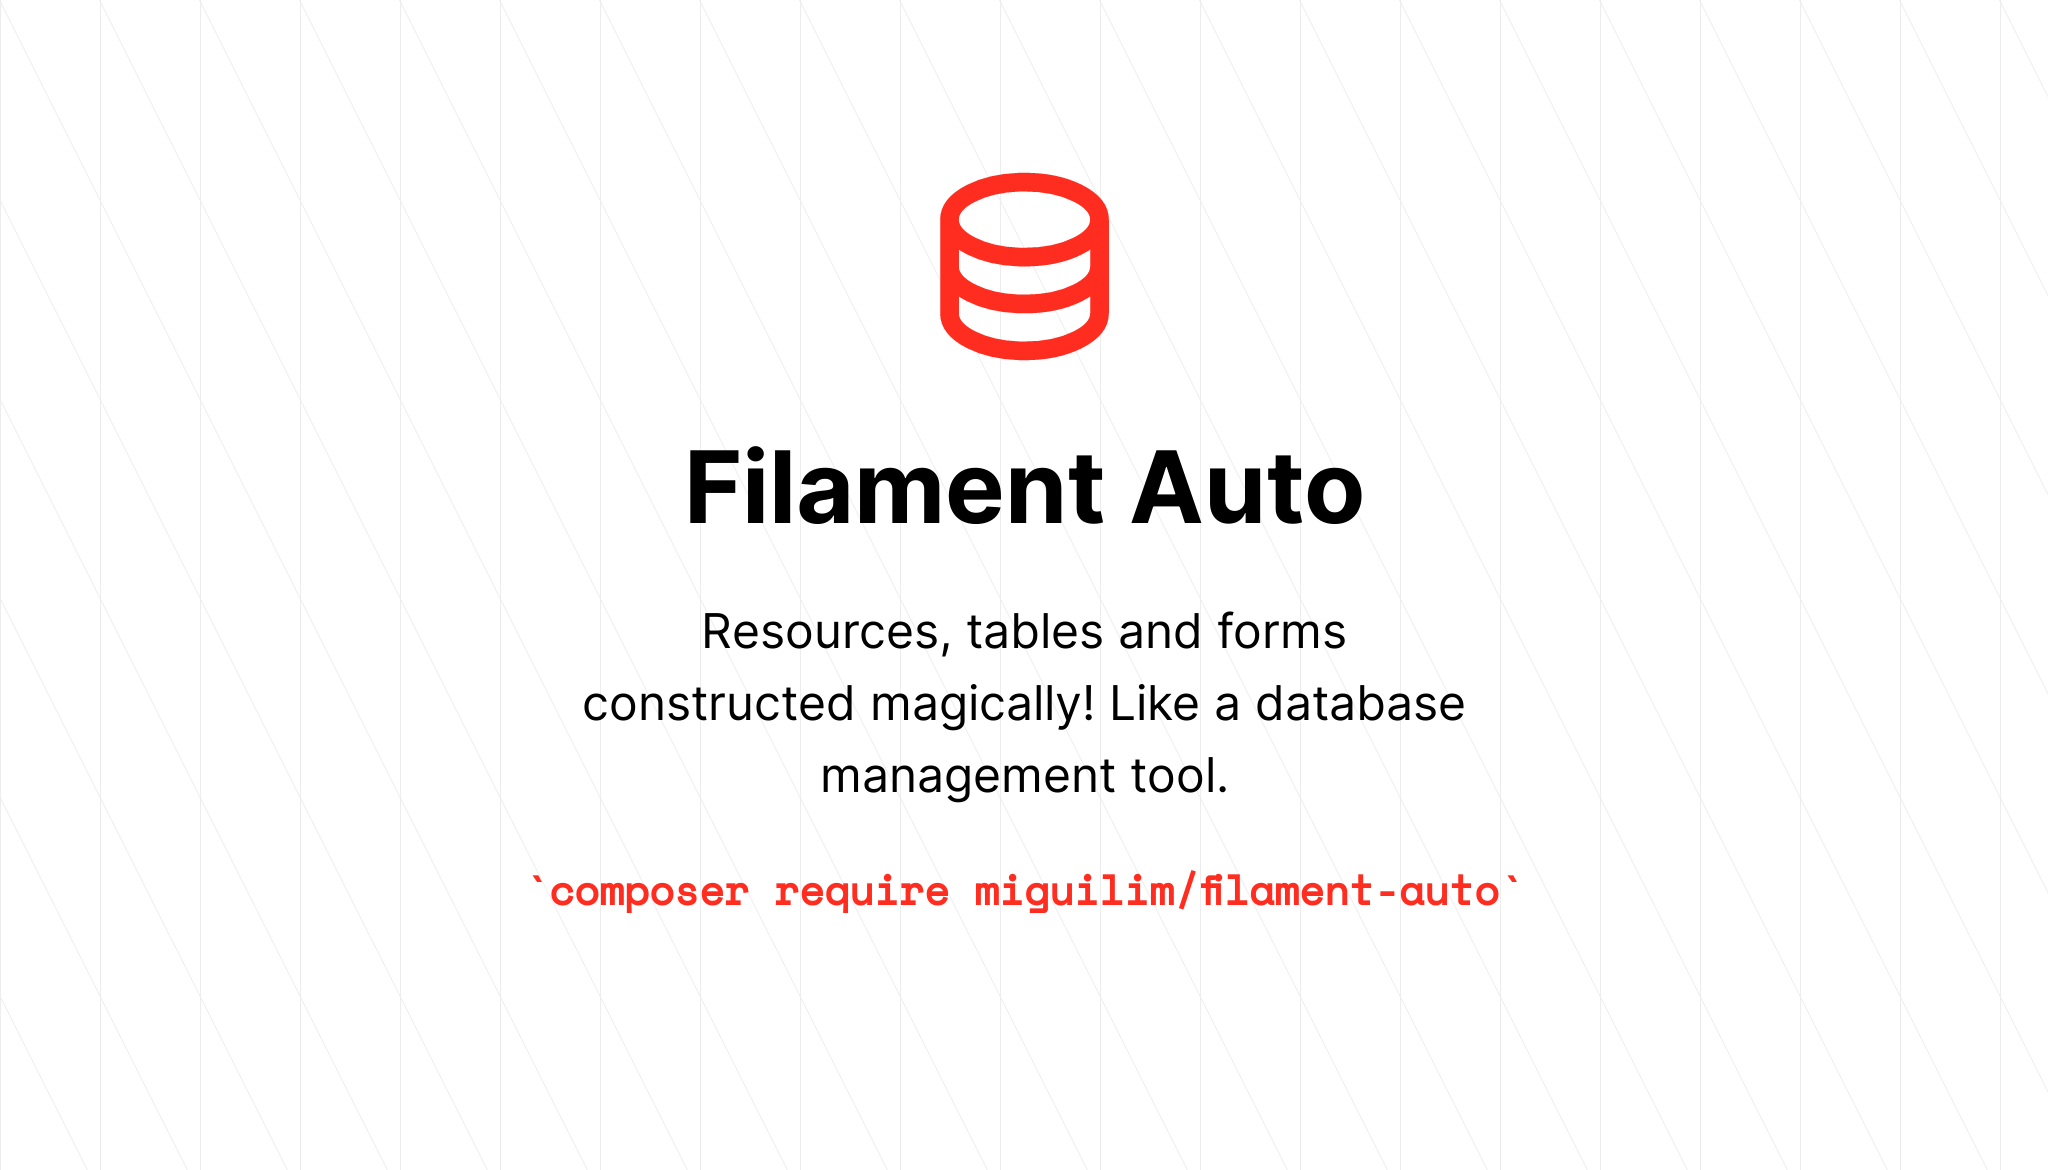
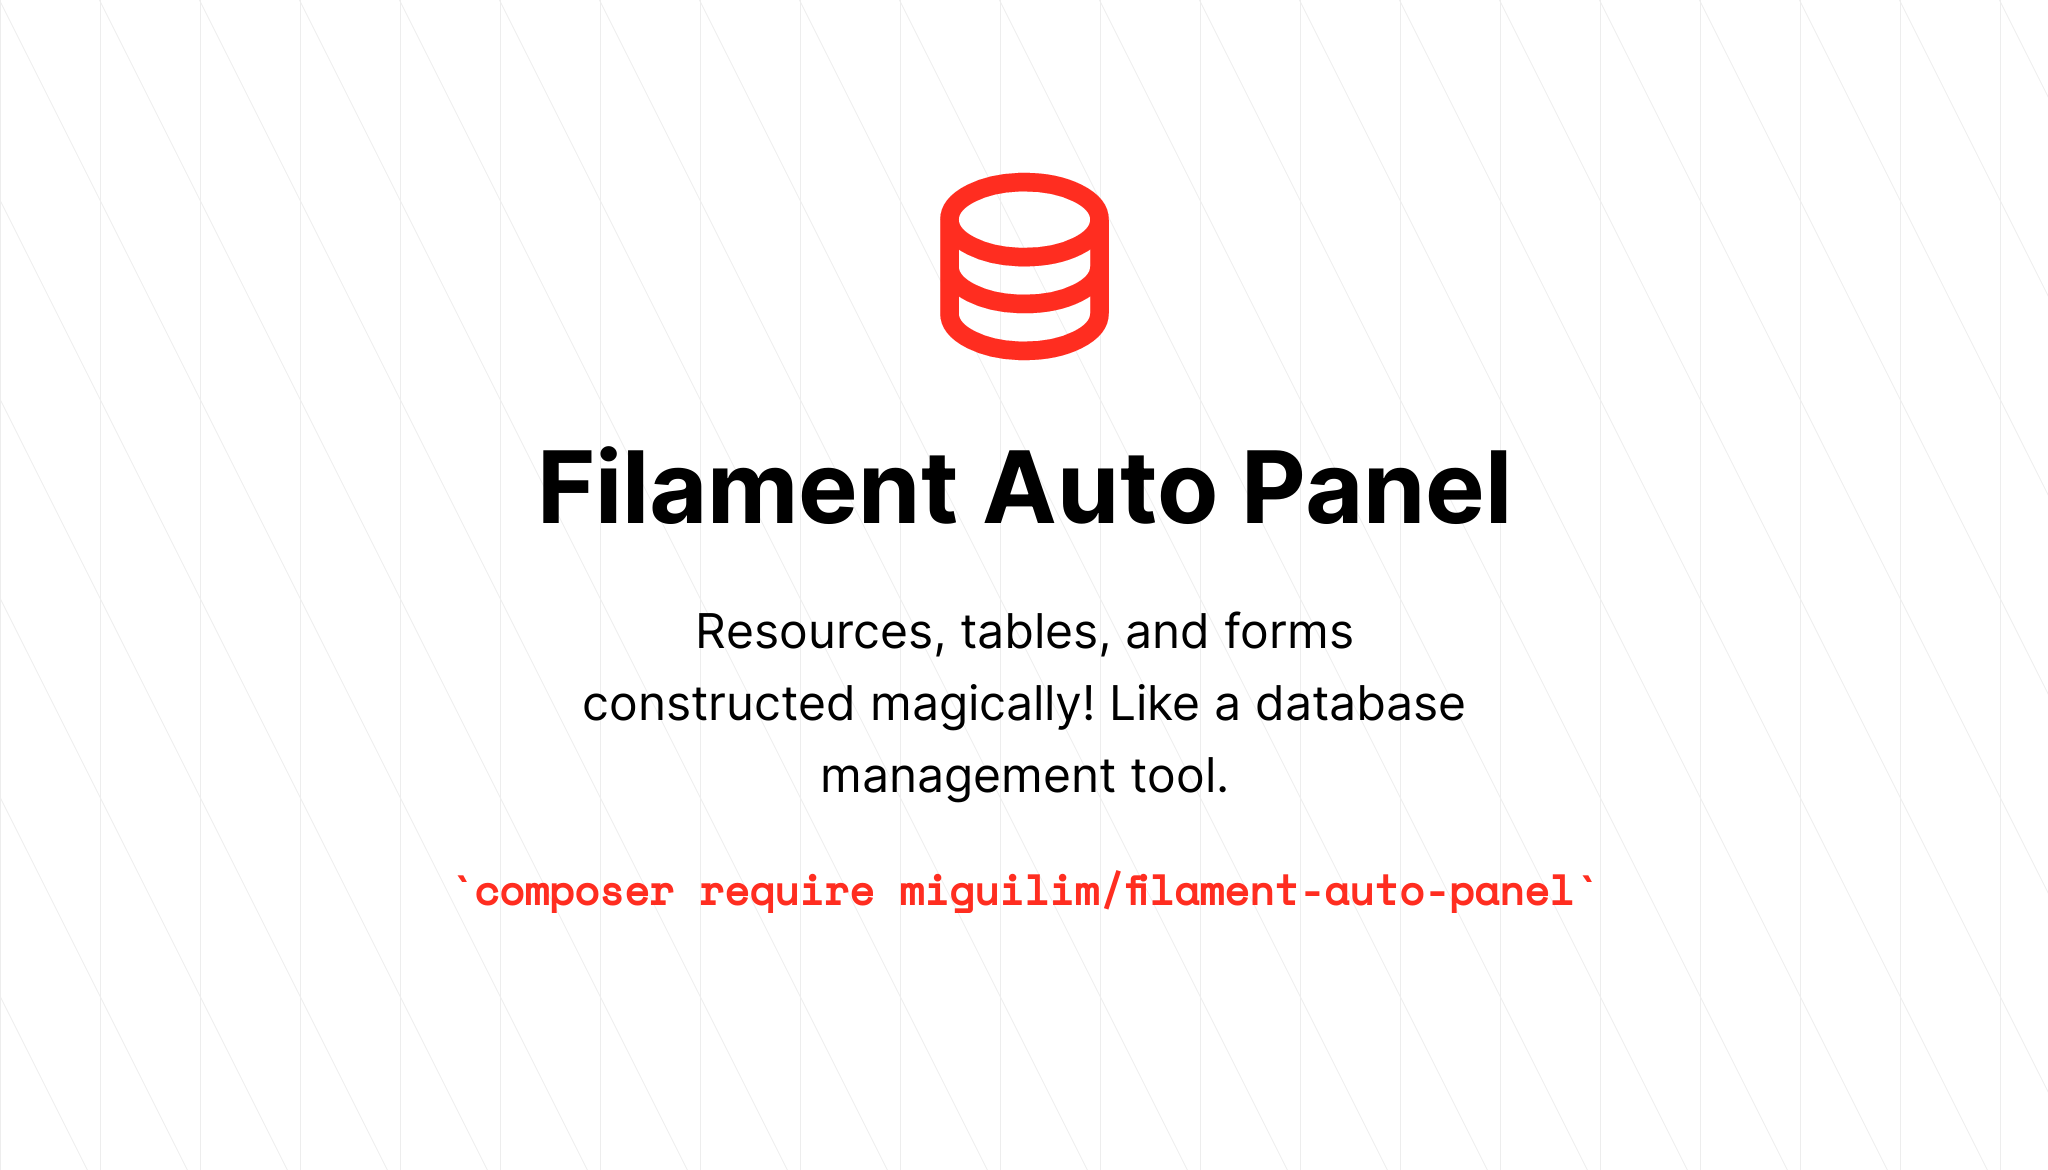
Migrate to new namespace

Changed region(s): [[0.25, 0.3692, 0.75, 0.4615], [0.2188, 0.7385, 0.7812, 0.8], [0.3438, 0.5231, 0.6562, 0.5538]]

diff --git a/src/AutoResource.php b/src/AutoResource.php
@@ -1,6 +1,6 @@
 <?php
 
-namespace Miguilim\FilamentAuto;
+namespace Miguilim\FilamentAutoPanel;
 
 use Filament\Tables;
 use Filament\Forms\Form;
@@ -9,10 +9,10 @@ use Filament\Resources\Resource;
 use Filament\Tables\Table;
 use Illuminate\Database\Eloquent\Builder;
 use Illuminate\Database\Eloquent\SoftDeletingScope;
-use Miguilim\FilamentAuto\Generators\FormGenerator;
-use Miguilim\FilamentAuto\Generators\InfolistGenerator;
-use Miguilim\FilamentAuto\Generators\TableGenerator;
-use Miguilim\FilamentAuto\Mounters\PageMounter;
+use Miguilim\FilamentAutoPanel\Generators\FormGenerator;
+use Miguilim\FilamentAutoPanel\Generators\InfolistGenerator;
+use Miguilim\FilamentAutoPanel\Generators\TableGenerator;
+use Miguilim\FilamentAutoPanel\Mounters\PageMounter;
 
 class AutoResource extends Resource
 {

diff --git a/src/AutoRelationManager.php b/src/AutoRelationManager.php
@@ -1,6 +1,6 @@
 <?php
 
-namespace Miguilim\FilamentAuto;
+namespace Miguilim\FilamentAutoPanel;
 
 use Filament\Forms\Form;
 use Filament\Infolists\Infolist;
@@ -13,9 +13,9 @@ use Illuminate\Database\Eloquent\Relations\HasMany;
 use Illuminate\Database\Eloquent\Relations\MorphMany;
 use Illuminate\Database\Eloquent\Relations\MorphToMany;
 use Illuminate\Database\Eloquent\SoftDeletingScope;
-use Miguilim\FilamentAuto\Generators\FormGenerator;
-use Miguilim\FilamentAuto\Generators\InfolistGenerator;
-use Miguilim\FilamentAuto\Generators\TableGenerator;
+use Miguilim\FilamentAutoPanel\Generators\FormGenerator;
+use Miguilim\FilamentAutoPanel\Generators\InfolistGenerator;
+use Miguilim\FilamentAutoPanel\Generators\TableGenerator;
 
 class AutoRelationManager extends RelationManager
 {

diff --git a/src/Mounters/PageMounter.php b/src/Mounters/PageMounter.php
@@ -1,11 +1,11 @@
 <?php
 
-namespace Miguilim\FilamentAuto\Mounters;
+namespace Miguilim\FilamentAutoPanel\Mounters;
 
 use Filament\Resources\Pages\PageRegistration;
-use Miguilim\FilamentAuto\Filament\Pages\FilamentAutoResourceCreate;
-use Miguilim\FilamentAuto\Filament\Pages\FilamentAutoResourceList;
-use Miguilim\FilamentAuto\Filament\Pages\FilamentAutoResourceView;
+use Miguilim\FilamentAutoPanel\Filament\Pages\FilamentAutoPanelResourceCreate;
+use Miguilim\FilamentAutoPanel\Filament\Pages\FilamentAutoPanelResourceList;
+use Miguilim\FilamentAutoPanel\Filament\Pages\FilamentAutoPanelResourceView;
 
 class PageMounter
 {

diff --git a/src/Generators/Concerns/HasGeneratorHelpers.php b/src/Generators/Concerns/HasGeneratorHelpers.php
@@ -1,12 +1,12 @@
 <?php
 
-namespace Miguilim\FilamentAuto\Generators\Concerns;
+namespace Miguilim\FilamentAutoPanel\Generators\Concerns;
 
 use Closure;
 use Doctrine\DBAL\Schema\Column;
 use Illuminate\Support\HtmlString;
 use Laravel\SerializableClosure\SerializableClosure;
-use Miguilim\FilamentAuto\Doctrine\CustomMySQLSchemaManager;
+use Miguilim\FilamentAutoPanel\Doctrine\CustomMySQLSchemaManager;
 
 trait HasGeneratorHelpers
 {

diff --git a/src/FilamentAutoPanelProvider.php b/src/FilamentAutoPanelProvider.php
@@ -1,10 +1,10 @@
 <?php
 
-namespace Miguilim\FilamentAuto;
+namespace Miguilim\FilamentAutoPanel;
 
 use Illuminate\Support\ServiceProvider;
 
-class FilamentAutoProvider extends ServiceProvider
+class FilamentAutoPanelProvider extends ServiceProvider
 {
     /**
      * Register services.

diff --git a/src/Mounters/RelationManagerMounter.php b/src/Mounters/RelationManagerMounter.php
@@ -1,8 +1,8 @@
 <?php
 
-namespace Miguilim\FilamentAuto\Mounters;
+namespace Miguilim\FilamentAutoPanel\Mounters;
 
-use Miguilim\FilamentAuto\AutoRelationManager;
+use Miguilim\FilamentAutoPanel\AutoRelationManager;
 
 class RelationManagerMounter
 {

diff --git a/src/Doctrine/CustomMySQLSchemaManager.php b/src/Doctrine/CustomMySQLSchemaManager.php
@@ -1,6 +1,6 @@
 <?php
 
-namespace Miguilim\FilamentAuto\Doctrine;
+namespace Miguilim\FilamentAutoPanel\Doctrine;
 
 use Doctrine\DBAL\Platforms\AbstractMySQLPlatform;
 use Doctrine\DBAL\Platforms\MariaDb1027Platform;

diff --git a/src/Filament/Pages/FilamentAutoResourceCreate.php b/src/Filament/Pages/FilamentAutoResourceCreate.php
@@ -1,6 +1,6 @@
 <?php
 
-namespace Miguilim\FilamentAuto\Filament\Pages;
+namespace Miguilim\FilamentAutoPanel\Filament\Pages;
 
 use Filament\Resources\Pages\CreateRecord;
 use Illuminate\Database\Eloquent\Model;

diff --git a/src/Filament/Pages/FilamentAutoResourceList.php b/src/Filament/Pages/FilamentAutoResourceList.php
@@ -1,6 +1,6 @@
 <?php
 
-namespace Miguilim\FilamentAuto\Filament\Pages;
+namespace Miguilim\FilamentAutoPanel\Filament\Pages;
 
 use Filament\Actions;
 use Filament\Resources\Pages\ListRecords;

diff --git a/src/Filament/Pages/FilamentAutoResourceView.php b/src/Filament/Pages/FilamentAutoResourceView.php
@@ -1,6 +1,6 @@
 <?php
 
-namespace Miguilim\FilamentAuto\Filament\Pages;
+namespace Miguilim\FilamentAutoPanel\Filament\Pages;
 
 use Filament\Actions;
 use Filament\Resources\Pages\ViewRecord;

diff --git a/src/Generators/FormGenerator.php b/src/Generators/FormGenerator.php
@@ -1,6 +1,6 @@
 <?php
 
-namespace Miguilim\FilamentAuto\Generators;
+namespace Miguilim\FilamentAutoPanel\Generators;
 
 use Doctrine\DBAL\Schema\Column;
 use Doctrine\DBAL\Types;

diff --git a/src/Generators/InfolistGenerator.php b/src/Generators/InfolistGenerator.php
@@ -1,6 +1,6 @@
 <?php
 
-namespace Miguilim\FilamentAuto\Generators;
+namespace Miguilim\FilamentAutoPanel\Generators;
 
 use Doctrine\DBAL\Schema\Column;
 use Doctrine\DBAL\Types;
